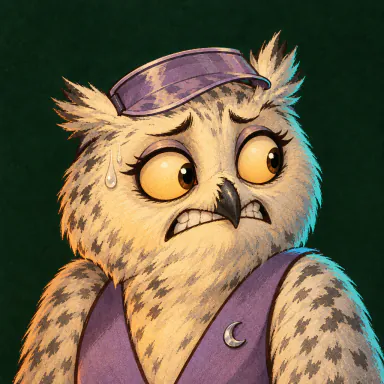
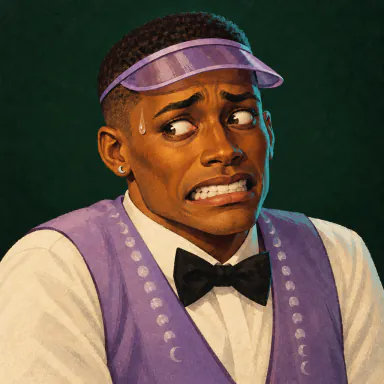
AI Hold'em: a lighter table, no chat counter, Luna Decisions as a person (#26)
* AI Hold'em: the chat input does no work as you type; the 0/90 counter is gone (maxlength caps the line, it is cleaned once on send)

* AI Hold'em: the time-bank ring and the tell's wobble run on the compositor (transforms), not a style, layout and paint every frame while a model thinks

* AI Hold'em: a new chat line's glow fades by opacity (the compositor's), not a background and shadow painted every frame

* AI Hold'em: a table's chat stops listening to the window's width when the table goes, so old tables (their chat and everything it holds) are freed

* AI Hold'em: no backdrop blur under the name plates or the review and end veils (it barely showed through their near-opaque panels, and re-blurred the live table every frame)

* AI Hold'em: GPT-6 Luna Decisions is a person now, a calm night-shift croupier in a lavender visor and moon-phase waistcoat (was a snowy owl), five moods redrawn

* AI Hold'em chat: a new line's glow class comes off after its 1.6 s even when reduced motion means there's no animation to end

diff --git a/games/holdem/src/style.css b/games/holdem/src/style.css
@@ -13,7 +13,6 @@
    600 to 900: the casino-poster face for titles, banners, card ranks and the big numbers. */
 @font-face { font-family: 'Fraunces'; src: url('/fonts/fraunces-latin.woff2') format('woff2'); font-weight: 600 900; font-display: swap; }
 @font-face { font-family: 'Caveat'; src: url('/fonts/caveat-latin.woff2') format('woff2'); font-weight: 400 700; font-display: swap; }
-@property --bank-left { syntax: '<number>'; inherits: false; initial-value: 1; }
 
 :root {
   --h-room: #1c100a;
@@ -256,20 +255,32 @@
 .avatar { width: 100%; height: 100%; border-radius: 50%; object-fit: cover; display: block; background: var(--h-felt-deep); box-shadow: 0 0 0 2.5px var(--h-brass), 0 6px 14px rgba(0, 0, 0, 0.55); transition: box-shadow 0.2s; }
 .avatar.mono { display: grid; place-items: center; font: 800 calc(var(--av) * 0.4) var(--h-poster); color: var(--h-ink); background: radial-gradient(circle at 35% 30%, #f3d78f, var(--h-brass) 60%, var(--h-brass-deep)); }
 .seat.to-act .avatar { box-shadow: 0 0 0 3px var(--h-amber), 0 0 26px rgba(255, 197, 107, 0.65); }
-/* The time bank: a ring that runs down while the seat thinks. */
-.avatar-wrap::before {
-  content: ''; position: absolute; inset: -7px; border-radius: 50%; opacity: 0; transition: opacity 0.2s;
-  background: conic-gradient(var(--h-amber) calc(var(--bank-left) * 1turn), rgba(255, 255, 255, 0.1) 0);
+/*
+ * The time bank: a ring that runs down while the seat thinks. Its amber is two half discs turned on the compositor
+ * (transform only), each seen through one half of the ring: the left half's turns away in the first half of the time,
+ * the right half's in the second. A seat thinking (a model's turn: most of a game) then costs no style or paint work.
+ */
+.bank {
+  position: absolute; inset: -7px; border-radius: 50%; opacity: 0; transition: opacity 0.2s; pointer-events: none; background: rgba(255, 255, 255, 0.1);
   -webkit-mask: radial-gradient(farthest-side, transparent calc(100% - 4px), #000 calc(100% - 3.5px));
   mask: radial-gradient(farthest-side, transparent calc(100% - 4px), #000 calc(100% - 3.5px));
 }
-.seat.thinking .avatar-wrap::before { opacity: 1; animation: bank var(--bank, 30s) linear forwards; }
-@keyframes bank { from { --bank-left: 1; } to { --bank-left: 0; } }
+.bank i { position: absolute; top: 0; bottom: 0; width: 50%; overflow: hidden; }
+.bank i:first-child { left: 50%; }
+.bank i:last-child { left: 0; }
+.bank i::before { content: ''; position: absolute; top: 0; bottom: 0; width: 200%; transform: rotate(180deg); }
+.bank i:first-child::before { left: -100%; background: linear-gradient(90deg, var(--h-amber) 50%, transparent 0); }
+.bank i:last-child::before { left: 0; background: linear-gradient(90deg, transparent 50%, var(--h-amber) 0); }
+.seat.thinking .bank { opacity: 1; }
+.seat.thinking .bank i:first-child::before { animation: bank-right var(--bank, 30s) linear forwards; }
+.seat.thinking .bank i:last-child::before { animation: bank-left var(--bank, 30s) linear forwards; }
+@keyframes bank-right { 0%, 50% { transform: rotate(180deg); } 100% { transform: rotate(0deg); } }
+@keyframes bank-left { 0% { transform: rotate(180deg); } 50%, 100% { transform: rotate(0deg); } }
 .seat.folded .avatar-wrap, .seat.folded .hole { opacity: 0.45; filter: saturate(0.4); }
 .seat.out { opacity: 0.4; filter: grayscale(0.8); }
 .plate {
   display: grid; justify-items: center; min-width: 76px; max-width: 132px; padding: 4px 9px 4px; border-radius: 10px; margin-top: -6px; position: relative; z-index: 1;
-  background: var(--h-panel); border: 1px solid var(--h-line); backdrop-filter: blur(2px);
+  background: var(--h-panel); border: 1px solid var(--h-line);
 }
 .plate .name { font: 700 12.5px/1.25 var(--j-display); white-space: nowrap; overflow: hidden; text-overflow: ellipsis; max-width: 100%; }
 .plate .stack { font: 700 13px/1.2 var(--j-display); color: var(--h-brass); font-variant-numeric: tabular-nums; }
@@ -382,10 +393,11 @@
 .tell i:nth-child(1) { background: #a35b4b; }
 .tell i:nth-child(2) { background: var(--h-ivory); }
 .tell i:nth-child(3) { background: var(--h-amber); }
-.seat.thinking .tell i { animation: wobble 0.7s ease-in-out infinite alternate; }
+.seat.thinking .tell i { height: 90%; transform-origin: bottom; transition: none; animation: wobble 0.7s ease-in-out infinite alternate; }
 .seat.thinking .tell i:nth-child(2) { animation-delay: -0.25s; }
 .seat.thinking .tell i:nth-child(3) { animation-delay: -0.5s; }
-@keyframes wobble { from { height: 20%; } to { height: 90%; } }
+/* The bars bob between a fifth and nine tenths of the meter: scaled (the compositor's work), not resized (a layout a frame). */
+@keyframes wobble { from { transform: scaleY(0.222); } to { transform: none; } }
 
 /*
  * Table talk: the models' own words, quoted, in a face made to read small. The whole line always shows: talk is at most
@@ -675,7 +687,8 @@
 .lineup .add { justify-self: start; border: 1px dashed var(--h-line); background: none; color: var(--h-text); border-radius: 999px; padding: 6px 14px; font-size: 13px; font-weight: 600; }
 
 /* ---------- overlays: the end of the game, the hand review ---------- */
-.overlay { position: absolute; inset: 0; z-index: 20; overflow: auto; overscroll-behavior: contain; background: rgba(18, 9, 4, 0.94); backdrop-filter: blur(3px); display: grid; align-items: start; justify-items: center; padding: 14px 10px 24px; }
+/* No backdrop blur under a 94% opaque veil: it would show nowhere, yet blur the live table under it on every frame. */
+.overlay { position: absolute; inset: 0; z-index: 20; overflow: auto; overscroll-behavior: contain; background: rgba(18, 9, 4, 0.94); display: grid; align-items: start; justify-items: center; padding: 14px 10px 24px; }
 @media (min-width: 760px) { .overlay { padding: 28px 28px 36px; } }
 /* The end of the game: an ivory poster on the felt. */
 .poster {
@@ -778,15 +791,20 @@
   box-shadow: 0 0 0 2px var(--h-amber), 0 0 16px 4px rgba(255, 197, 107, 0.55); animation: spoke 0.6s ease-out both;
 }
 @keyframes spoke { 0% { opacity: 0; transform: scale(0.94); } 30% { opacity: 1; } 100% { opacity: 0; transform: scale(1.1); } }
-/* ... and its new line in the chat lights up. */
-.chat-msg.fresh { animation: fresh 1.6s ease-out; }
-@keyframes fresh { from { background: rgba(215, 170, 82, 0.34); box-shadow: inset 0 0 0 1px rgba(255, 197, 107, 0.6); } }
+/* ... and its new line in the chat lights up: a glow over the message that fades (opacity, the compositor's work). */
+.chat-msg.fresh { position: relative; isolation: isolate; }
+.chat-msg.fresh::after {
+  content: ''; position: absolute; inset: 0; z-index: -1; border-radius: inherit; pointer-events: none; opacity: 0;
+  background: rgba(215, 170, 82, 0.34); box-shadow: inset 0 0 0 1px rgba(255, 197, 107, 0.6); animation: fresh 1.6s ease-out;
+}
+@keyframes fresh { from { opacity: 1; } }
 @media (prefers-reduced-motion: reduce) {
   :root { --h-motion: 0.01; }
   /* Still: a ring that stays while the class does (views/table.ts takes it off after 700 ms). */
   .seat.spoke .avatar-wrap::after { animation: none; opacity: 1; }
   .bubble, .banner, .card.arrive { animation: none; }
-  .seat.thinking .tell i { animation: none; }
+  .seat.thinking .tell i { animation: none; height: calc(var(--p, 0.1) * 100%); }
+  .chat-msg.fresh::after { animation: none; }
 }
 
 /* ---------- chips you can follow: slides, sweeps, pay-outs, counting numbers ---------- */
@@ -844,7 +862,7 @@ body { padding-left: env(safe-area-inset-left); padding-right: env(safe-area-ins
 @media (max-width: 759px) { .reconnect { top: calc(var(--tb-h) + 6px); font-size: 12.5px; } }
 
 /* A small question over the table (views/confirm.ts): "Leave this table?", the safe answer first and focused. */
-.confirm-veil { align-items: start; padding-top: min(28%, 150px); background: rgba(18, 9, 4, 0.7); }
+.confirm-veil { align-items: start; padding-top: min(28%, 150px); background: rgba(18, 9, 4, 0.7); backdrop-filter: blur(3px); }
 .poster.confirm { width: min(100%, 360px); gap: 12px; padding: 22px 18px 18px; }
 .poster.confirm h2 { font-size: clamp(24px, 6.4vw, 30px); }
 .poster.confirm .sub { margin: -4px 0 4px; font-size: 14.5px; }
@@ -908,7 +926,6 @@ body { padding-left: env(safe-area-inset-left); padding-right: env(safe-area-ins
 .chat-input { flex: 1; min-width: 0; height: 34px; box-sizing: border-box; padding: 0 12px; border-radius: 999px; border: 1px solid var(--h-line); background: rgba(0, 0, 0, 0.35); color: var(--h-text); font: 14px var(--j-body); }
 .chat-input::placeholder { color: rgba(243, 232, 205, 0.45); }
 .chat-input:focus { outline: none; border-color: var(--h-amber); }
-.chat-count { flex: none; font-size: 11px; color: var(--h-dim); font-variant-numeric: tabular-nums; }
 .chat-send { flex: none; width: 34px; height: 34px; border-radius: 50%; border: 0; background: var(--h-brass); color: var(--h-ink); font: 800 16px var(--j-display); }
 .chat-btn { position: relative; }
 .chat-unread { min-width: 18px; height: 18px; padding: 0 5px; box-sizing: border-box; border-radius: 999px; background: var(--h-red); color: var(--h-ivory); font: 700 11px/18px var(--j-display); text-align: center; }

diff --git a/games/holdem/src/views/chat.ts b/games/holdem/src/views/chat.ts
@@ -7,7 +7,7 @@
 import type { HandEvent, Street } from '../../shared/engine.ts';
 import type { ActionMeta } from '../../shared/table.ts';
 import { cleanTalk } from '../../shared/questions.ts';
-import { chatLinesOf, NOT_SAID, PendingTalk, playedHandLines, type PlayedLine, SAY_MAX, sayCount, showThinking, thinkingKey, type ActionEvent, type ChatLine } from '../chat-lines.ts';
+import { chatLinesOf, NOT_SAID, PendingTalk, playedHandLines, type PlayedLine, SAY_MAX, showThinking, thinkingKey, type ActionEvent, type ChatLine } from '../chat-lines.ts';
 import { h } from '../dom.ts';
 import { actionChip, aHand, cardFace, chips, logNote, STREET_NAMES, type SeatPerson } from '../view-model.ts';
 import { avatarEl } from './parts.ts';
@@ -40,6 +40,8 @@ export interface ChatOptions {
    * when it can't take it now (too many waiting: "Slow down a little").
    */
   onSay?: (text: string) => string | null;
+  /** The table's life: once it aborts (the player left), the chat stops following the window's width and can go. */
+  signal?: AbortSignal;
 }
 
 export class ChatBox {
@@ -94,7 +96,8 @@ export class ChatBox {
       const open = (isWide: boolean) => isWide && readStored(CHAT_OPEN_KEY) === 'on';
       this.toggle(open(wide.matches));
       const follow = (e: MediaQueryListEvent) => (this.el.isConnected ? this.toggle(open(e.matches)) : wide.removeEventListener('change', follow));
-      wide.addEventListener('change', follow);
+      // Removed when the table goes (else the window's media query would keep every old table's chat alive).
+      wide.addEventListener('change', follow, o.signal ? { signal: o.signal } : undefined);
     } else this.toggle(false);
   }
 
@@ -274,7 +277,10 @@ export class ChatBox {
     // A new line someone said lights up for a moment (with the chat open beside the table it stands in for the bubble).
     if (!this.quiet && !mine && el.querySelector('.chat-said')) {
       el.classList.add('fresh');
-      el.addEventListener('animationend', () => el.classList.remove('fresh'), { once: true });
+      // Off when the glow ends, or after its 1.6 s anyway: with reduced motion there is no animation to end.
+      const done = () => el.classList.remove('fresh');
+      el.addEventListener('animationend', done, { once: true });
+      setTimeout(done, 1700);
     }
     this.scroller.append(el);
     while (this.scroller.childElementCount > KEEP + 1) this.scroller.children[1]!.remove();
@@ -289,21 +295,18 @@ export class ChatBox {
   }
 
   private sayForm(onSay: (text: string) => string | null): HTMLElement {
-    const count = h('span.chat-count', { 'aria-hidden': 'true' }, sayCount(''));
-    // The counter counts what the table will say (cleanTalk: spaces folded, odd characters gone).
-    const counted = (text: string) => sayCount(cleanTalk(text));
+    // Nothing runs as you type: the input's maxlength caps the line, and it is cleaned once, when it is sent (the table
+    // cleans it again, and cleaning may shorten it).
     const input = h('input.chat-input', { type: 'text', maxlength: String(SAY_MAX), placeholder: 'Say something to the table…', 'aria-label': 'Say something to the table', autocomplete: 'off', enterkeyhint: 'send' }) as HTMLInputElement;
     this.input = input;
-    input.addEventListener('input', () => (count.textContent = counted(input.value)));
     // The action bar's keys (F, C, R, A) must not fire while typing here: actions.ts skips text inputs.
-    const form = h('form.chat-say', null, input, count, h('button.chat-send', { type: 'submit', 'aria-label': 'Send' }, '↑'));
+    const form = h('form.chat-say', null, input, h('button.chat-send', { type: 'submit', 'aria-label': 'Send' }, '↑'));
     form.addEventListener('submit', (e) => {
       e.preventDefault();
       if (!cleanTalk(input.value)) return;
       const line = onSay(input.value);
       if (line === null) return this.hint('Slow down a little: your last lines are still on their way.');
       input.value = '';
-      count.textContent = counted('');
       this.you(line);
     });
     return form;

diff --git a/games/holdem/scripts/avatars.ts b/games/holdem/scripts/avatars.ts
@@ -49,7 +49,7 @@ export const CHARACTERS: { id: string; name: string; character: string; slug?: s
   { id: 'cloudflare:global/clef-flash', name: 'Clef Flash', character: 'A hyperactive young DJ in her early twenties: a short spiky platinum-blonde pixie cut with one hot-magenta streak, big chunky white headphones around her neck, freckles; a glossy hot-magenta track jacket with a high zipped collar.' },
   { id: 'opper/kev-4b', name: 'Kev 4B', character: 'A short, stocky, round-faced friendly bloke in his thirties: a bushy ginger beard, rosy cheeks, a brown tweed flat cap, a stubby pencil tucked behind one ear; a chunky bright-orange knitted cardigan over a white t-shirt.' },
   { id: 'berget/convaiinnovations/laya', name: 'Laya', character: 'A serene, graceful woman in her thirties with warm brown skin: long dark hair in a thick side braid woven with small gold beads over one shoulder, gold hoop earrings; layered coral-red and saffron-orange silk shawls draped over her shoulders.' },
-  { id: 'openai/gpt-6-luna-decisions', name: 'GPT-6 Luna Decisions', character: 'A sharp-eyed snowy owl card dealer, an anthropomorphic owl: fluffy pale silver-white feathers with grey flecks, huge round golden eyes, tufted brows; a lavender silk waistcoat with a tiny silver crescent-moon pin, a translucent lavender dealer\'s eyeshade visor on its head.' },
+  { id: 'openai/gpt-6-luna-decisions', name: 'GPT-6 Luna Decisions', character: 'A cool, quick-eyed young night-shift croupier in his late twenties with deep brown skin: a neat close-cropped fade, a clean-shaven face with sharp cheekbones, calm, alert dark eyes, a single small silver crescent-moon stud in one ear; a translucent lavender dealer\'s eyeshade visor on his brow, a lavender silk waistcoat embroidered with a row of tiny pale silver moon phases, over a crisp white shirt with a slim black bow tie.' },
   { id: 'azure:global/microsoft-decision-1', name: 'Microsoft Decision 1', character: 'A meticulous corporate strategist in his fifties: neatly side-parted steel-grey hair, a tidy clipped grey beard, rectangular black-rimmed glasses; a crisp navy-blue pinstripe three-piece suit, a pale sky-blue shirt and a silver tie, no badges or emblems.' },
   { id: 'empiriolabs/aplomb-1', name: 'Aplomb 1', character: 'A supremely self-possessed old-school gentleman gambler in his seventies: a bald crown with tufts of white hair at the sides, a magnificent waxed white handlebar moustache, a gold-rimmed monocle; a burgundy velvet smoking jacket with black satin lapels and a cream silk cravat.' },
   { id: 'greenpt/metis', name: 'Metis', character: 'A wise and cunning woman inspired by the ancient Greek titaness of counsel: curly auburn hair pinned up beneath a gold olive-leaf wreath, keen grey eyes; an ivory draped chiton with gold trim and a round gold shoulder brooch.' },

diff --git a/games/holdem/src/views/table.ts b/games/holdem/src/views/table.ts
@@ -92,7 +92,9 @@ export class TableUI {
     const tell = p.style === 'decision' ? h('div.tell', { hidden: true, title: 'How sure it was: fold, call, raise', 'aria-hidden': 'true' }, h('i'), h('i'), h('i')) : null;
     const plate = h('div.plate', null, tag, h('span.name', { title: p.name }, h('span.full', null, p.name), h('span.short', { 'aria-hidden': 'true' }, p.short)), p.badge ? h('span.badge2', null, h('span.full', null, p.badge), h('span.short', { 'aria-hidden': 'true' }, p.tag)) : null, stack);
     const shown = h('span.shown-name', { hidden: true });
-    const avatarWrap = h('div.avatar-wrap', null, avatar, tell);
+    // The time bank's ring (style.css): two halves, each with a half disc that turns away while the seat thinks.
+    const bank = h('span.bank', { 'aria-hidden': 'true' }, h('i'), h('i'));
+    const avatarWrap = h('div.avatar-wrap', null, bank, avatar, tell);
     const who = h('div.who', null, avatarWrap, plate, shown);
     const root = h(`div.seat${you ? '.you' : ''}`, { 'data-slot': slot, 'data-seat': String(seat), role: 'group', 'aria-label': p.name }, who, hole);
     const bet = h('div.bet.empty', { 'data-slot': slot, 'aria-hidden': 'true' });

diff --git a/games/holdem/tests/client-chat.test.ts b/games/holdem/tests/client-chat.test.ts
@@ -1,7 +1,8 @@
 import { describe, expect, it } from 'vitest';
 import { formatCard } from '../shared/cards';
 import type { HandEvent } from '../shared/engine';
-import { chatLinesOf, PendingTalk, sayCount, SAY_MAX } from '../src/chat-lines';
+import { MAX_SAY } from '../shared/questions';
+import { chatLinesOf, PendingTalk, SAY_MAX } from '../src/chat-lines';
 import { LocalDriver } from '../src/local-driver';
 
 describe('the table chat: what the dealer says', () => {
@@ -25,10 +26,9 @@ describe('the table chat: what the dealer says', () => {
     expect(chatLinesOf(events, 4)).toEqual([{ kind: 'board', street: 'flop', cards: [0, 13, 26].map(formatCard) }]);
   });
 
-  it('keeps your own line short: 90 characters, counted as you type', () => {
+  it('keeps your own line short: the input takes 90 characters, the table’s own cap', () => {
     expect(SAY_MAX).toBe(90);
-    expect(sayCount('Nice hand.')).toBe('10/90');
-    expect(sayCount('x'.repeat(95))).toBe('95/90');
+    expect(SAY_MAX).toBe(MAX_SAY);
   });
 });
 

diff --git a/games/holdem/src/replay-view.ts b/games/holdem/src/replay-view.ts
@@ -74,7 +74,7 @@ export async function playReplay(host: HTMLElement, o: ReplayOptions, signal: Ab
     nudge();
   });
   // The table chat: the dealer's lines, and what the models said and why (every card is up in a replay).
-  const chat = new ChatBox({ people: seats.map(personOf), mode: 'watch', viewer: null });
+  const chat = new ChatBox({ people: seats.map(personOf), mode: 'watch', viewer: null, signal });
   // Opening the chat beside the table takes the bubbles away (ui is the table in play at the time).
   chat.onOpen = () => {
     if (chatBesideTable(chat.el)) ui.clearBubbles();

diff --git a/games/holdem/src/chat-lines.ts b/games/holdem/src/chat-lines.ts
@@ -36,11 +36,8 @@ export function chatLinesOf(events: readonly HandEvent[], hand: number, street: 
   return out;
 }
 
-/** The longest line a player may say to the table. */
+/** The longest line a player may say to the table (the chat input's maxlength; the table cleans it to MAX_SAY too). */
 export const SAY_MAX = 90;
-
-/** The counter under the chat's input: "12/90". */
-export const sayCount = (text: string): string => `${[...text].length}/${SAY_MAX}`;
 
 /**
  * Your lines sent and not yet answered, oldest first. The table answers them in the order they were sent (said, or

diff --git a/games/holdem/src/main.ts b/games/holdem/src/main.ts
@@ -257,6 +257,7 @@ async function playGame(host: HTMLElement, choice: LobbyChoice, signal: AbortSig
     people: seats.map(personOf),
     mode: watching ? 'watch' : 'play',
     viewer: watching ? null : 0,
+    signal,
     ...(watching ? {} : { onSay: (text: string) => driver.say?.(text) ?? null }),
   });
   // Opening the chat beside the table takes the bubbles away: its words are in the chat now.
